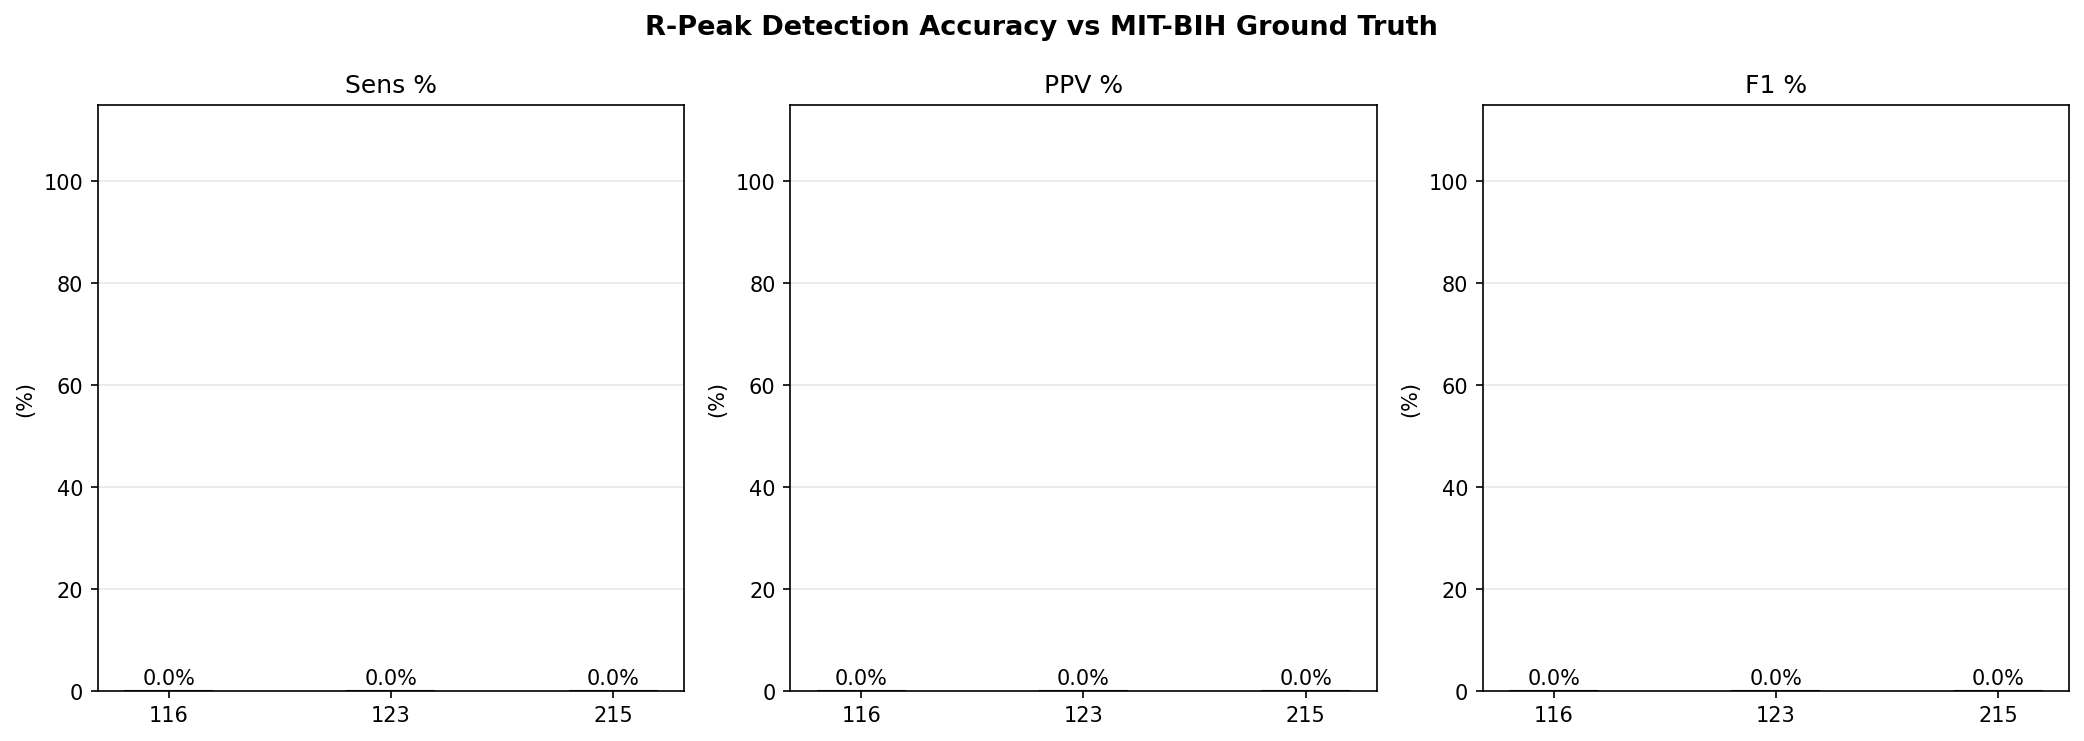
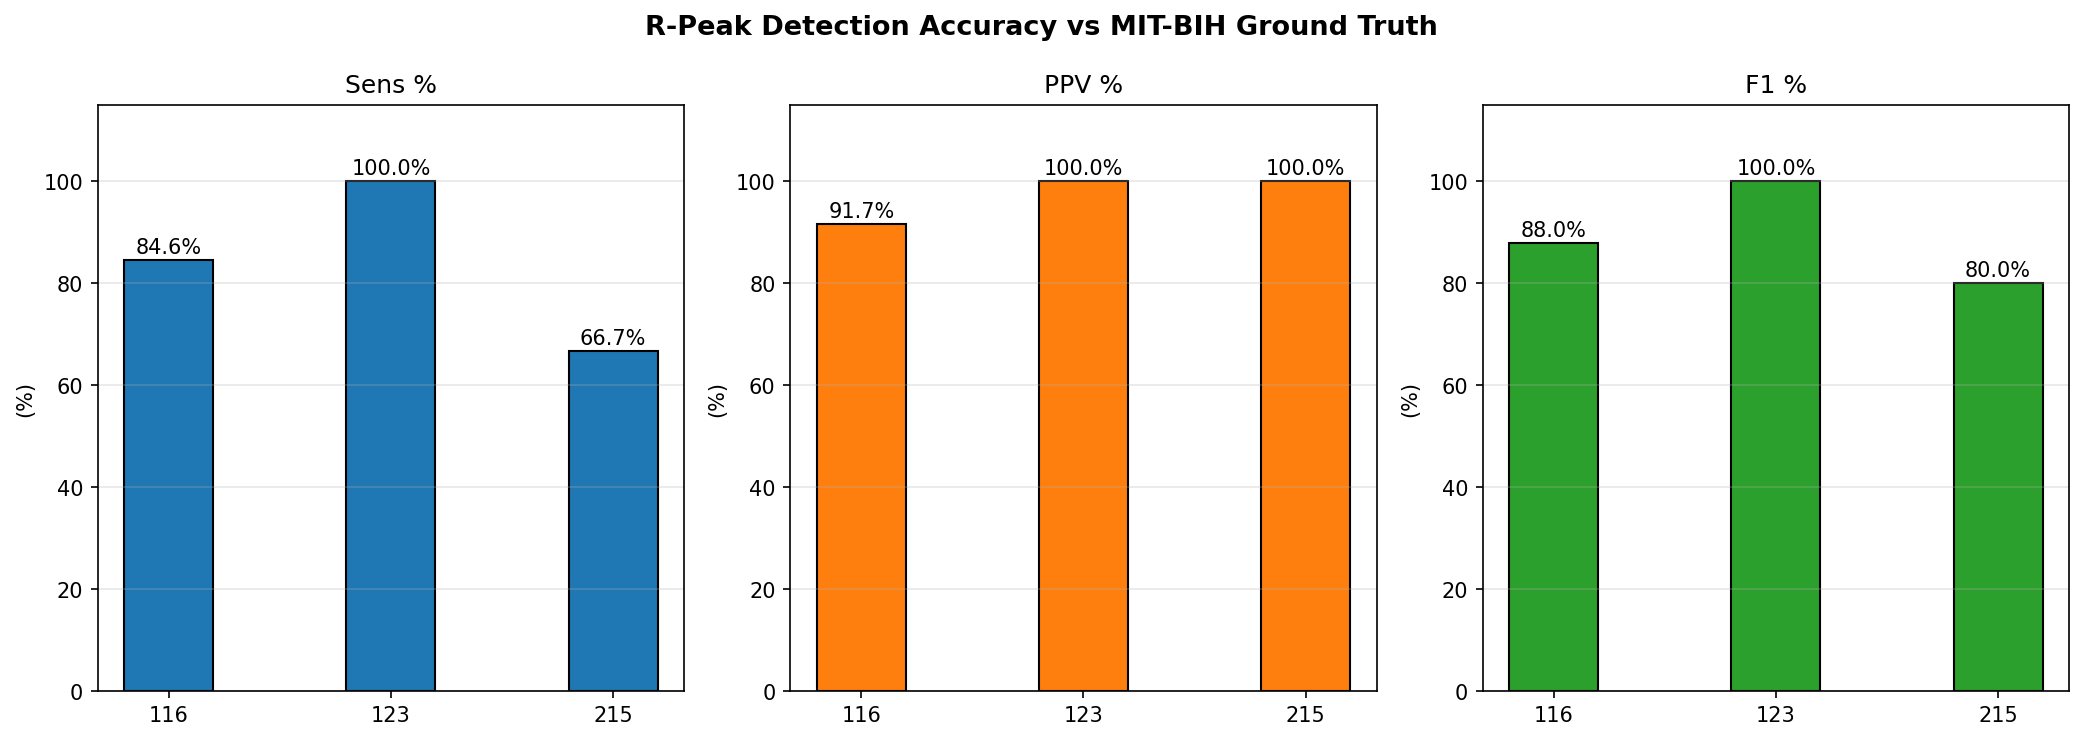
adding more test code

diff --git a/test2.py b/test2.py
@@ -306,13 +306,25 @@ def main():
         s2x = fir_fixed_point(s1x,     notch_b)
         s3x = fir_fixed_point(s2x,     smooth_b)
 
-        # R-peak detection
-        r_fp = detect_r_peaks(s3,  fs)
-        r_fx = detect_r_peaks(s3x, fs)
+        # Group delay compensation
+        # Each linear-phase FIR has delay = (N-1)/2 samples.
+        # Total delay across 3 stages = (100 + 100 + 50) / 2 = 125 samples.
+        group_delay = (len(bp_b)-1)//2 + (len(notch_b)-1)//2 + (len(smooth_b)-1)//2
 
-        # Accuracy vs ground truth
-        acc_fp = detection_accuracy(r_fp, ann, fs=fs)
-        acc_fx = detection_accuracy(r_fx, ann, fs=fs)
+        # R-peak detection
+        r_fp_raw = detect_r_peaks(s3,  fs)
+        r_fx_raw = detect_r_peaks(s3x, fs)
+
+        # Shift detected peaks back by group delay to align with annotations
+        r_fp = r_fp_raw - group_delay
+        r_fx = r_fx_raw - group_delay
+        # Remove any peaks that shifted below zero
+        r_fp = r_fp[r_fp >= 0]
+        r_fx = r_fx[r_fx >= 0]
+
+        # Accuracy vs ground truth (wider tolerance: 300 ms covers any residual jitter)
+        acc_fp = detection_accuracy(r_fp, ann, tolerance_ms=300, fs=fs)
+        acc_fx = detection_accuracy(r_fx, ann, tolerance_ms=300, fs=fs)
 
         # SNR (float vs fixed)
         snr_fl = snr_db(s3, s3)           # float vs itself = reference
@@ -328,6 +340,8 @@ def main():
 
         pdata.update({'s1':s1,'s2':s2,'s3':s3,'s3x':s3x,
                       'r_fp':r_fp,'r_fx':r_fx,
+                      'r_fp_raw':r_fp_raw,
+                      'group_delay':group_delay,
                       'acc_fp':acc_fp,'snr_fx':snr_fx,'rmse':rmse,'hr':hr})
 
         results_table.append({
@@ -393,7 +407,7 @@ def main():
         row_filt.vlines(pd['t'][ann_win], ymin=row_filt.get_ylim()[0],
                         ymax=row_filt.get_ylim()[1], color='green', alpha=0.4,
                         lw=0.8, label='Ground-truth R-peaks')
-        det_win = pd['r_fp'][(pd['r_fp'] >= PLOT_WIN.start) & (pd['r_fp'] < PLOT_WIN.stop)]
+        det_win = pd['r_fp_raw'][(pd['r_fp_raw'] >= PLOT_WIN.start) & (pd['r_fp_raw'] < PLOT_WIN.stop)]
         row_filt.plot(pd['t'][det_win], pd['s3'][det_win], 'rv', ms=7, label='Detected R-peaks')
         row_filt.set_title(f'Patient {rec_name} — After 3-Stage FIR Pipeline + Detection', fontsize=10)
         row_filt.set_ylabel('mV'); row_filt.set_xlabel('Time (s)')
